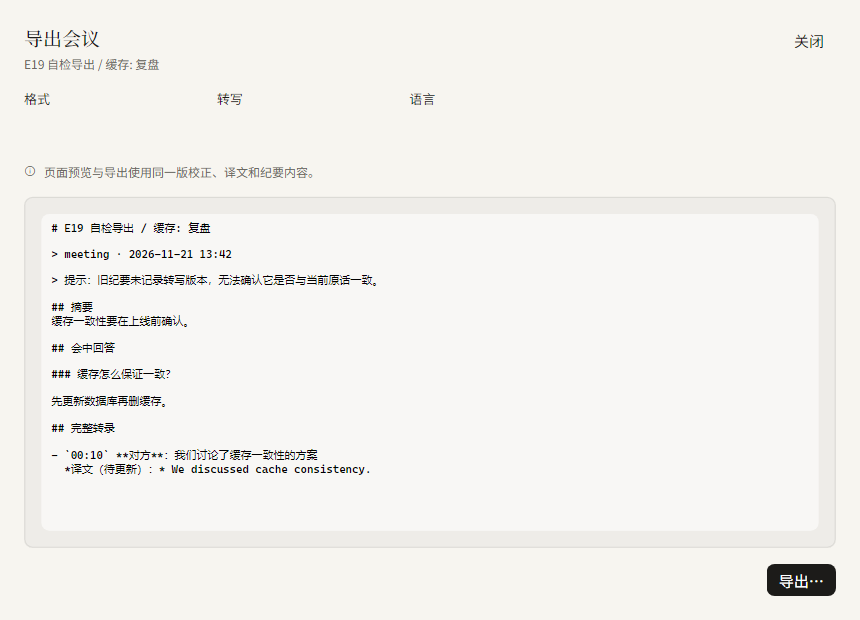
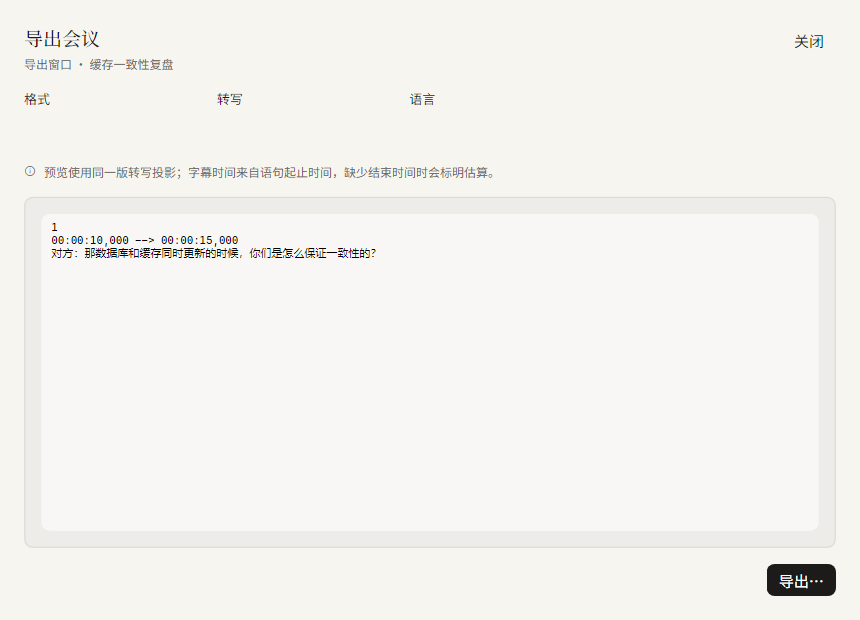
E21: drive the export sheet from a real archived meeting and capture light/dark evidence (§6.7)

diff --git a/Windows/src/NextThought.Desktop/SelfTest/Checks/RunWindowsCheckAsync.cs b/Windows/src/NextThought.Desktop/SelfTest/Checks/RunWindowsCheckAsync.cs
@@ -128,6 +128,11 @@ public partial class MainWindow
             await state.RefreshHistoryAsync();
             if (state.History.FirstOrDefault(item => item.Meta.Id == meta.Id) is { } row)
                 await state.SelectHistoryAsync(row.Meta);
+            // The demo data loaded above keeps its own CurrentSession; point the export at the real
+            // archived meeting the same way the session-export self-test does.
+            if (state.History.FirstOrDefault(item => item.Meta.Id == meta.Id) is { } selected)
+                state.CurrentSession = selected.Meta;
+            var exportPrepared = state.PrepareSessionExport();
             var export = new SessionExportSheet { DataContext = state };
             export.Show();
             await Pump();
@@ -135,8 +140,8 @@ public partial class MainWindow
             await Pump();
             var preview = export.FindControl<TextBox>("PreviewBox");
             var format = export.FindControl<ComboBox>("FormatBox");
-            Check("e21-preview", preview?.Text?.Contains("-->") == true && format?.ItemCount == 5,
-                "SRT preview with arrows; 5 formats");
+            Check("e21-preview", exportPrepared && preview?.Text?.Contains("-->") == true && format?.ItemCount == 5,
+                $"prepared={exportPrepared} preview={preview?.Text?.Length ?? -1} formats={format?.ItemCount}");
             foreach (var dark in new[] { false, true })
             {
                 if (Avalonia.Application.Current is { } app)
@@ -148,14 +153,26 @@ public partial class MainWindow
 
             // ---- E22: backup restore review (a real recovery point) ---------------------------
             Directory.CreateDirectory(Evidence("backup-review"));
+            // PrepareBackupImportAsync refuses while a meeting records or a working operation runs:
+            // the demo stage above had a running meeting, so end it and wait for idle first.
+            state.Recording = false;
+            for (var idle = 0; idle < 60 && !state.IsIdle; idle++) await Task.Delay(100);
             state.LoadBackupPreferences();
             await state.RefreshBackupsAsync();
             await state.BackupNowCommand.ExecuteAsync(null);
             await Task.Delay(500);
+            await state.RefreshBackupsAsync();
             var point = state.Backups.FirstOrDefault();
             if (point is null) throw new InvalidOperationException("没有生成恢复点，无法复核。");
-            var prepared = await state.PrepareBackupImportAsync(point.File.Path);
-            if (prepared is null) throw new InvalidOperationException("恢复点无法准备成复核。");
+            // Same real flow as --self-test backup-ui: the recovery point is prepared, retried while
+            // the just-finished backup is still being written.
+            PreparedBackupImport? prepared = null;
+            for (var attempt = 0; attempt < 6 && prepared is null; attempt++)
+            {
+                prepared = await state.PrepareBackupImportAsync(point.File.Path);
+                if (prepared is null) await Task.Delay(700);
+            }
+            if (prepared is null) throw new InvalidOperationException("恢复点无法准备成复核：" + state.BackupStatusLine);
             var review = new BackupRestoreReviewView(prepared, state);
             var reviewWindow = new Window
             {

diff --git a/Windows/validation/screens/export/compare.md b/Windows/validation/screens/export/compare.md
@@ -2,7 +2,7 @@
 
 - Mac 基准：Mac 3.4.0 `f015e8c6`，`Sources/NextThought/SessionExportUI.swift`（SessionExportSheet）
 - Windows 代码：`Windows/src/NextThought.Desktop/Views/SessionExportSheet.axaml(.cs)`、`AppState.SessionExport.cs`
-- Windows 截图（本目录）：`export-light.png`（`--self-test session-export` 产出的真实会议 SRT 源文本预览；深色版待补）
+- Windows 截图（本目录）：`export-light.png` / `export-dark.png`（`--self-test windows` 用真实归档会议复现 SRT 源文本预览，浅/深各一张）
 - 证据生成：`--self-test windows`
 
 | # | Mac 元素（顺序） | 值 | Windows 现状 | 结论 |
